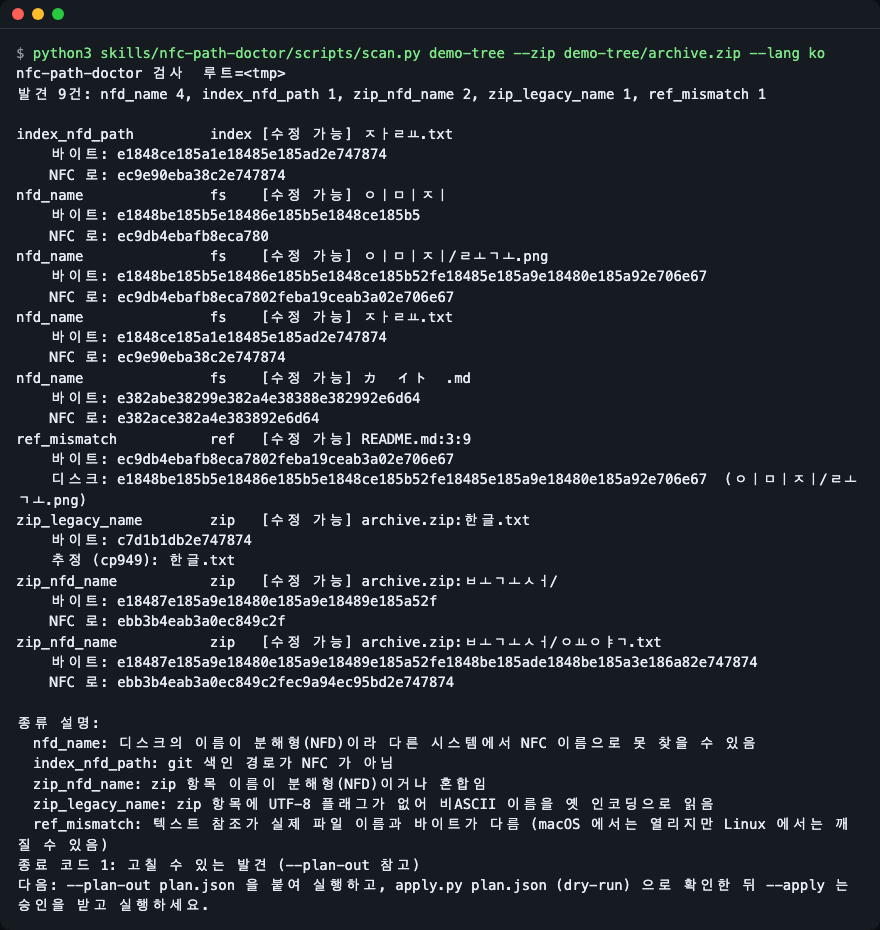
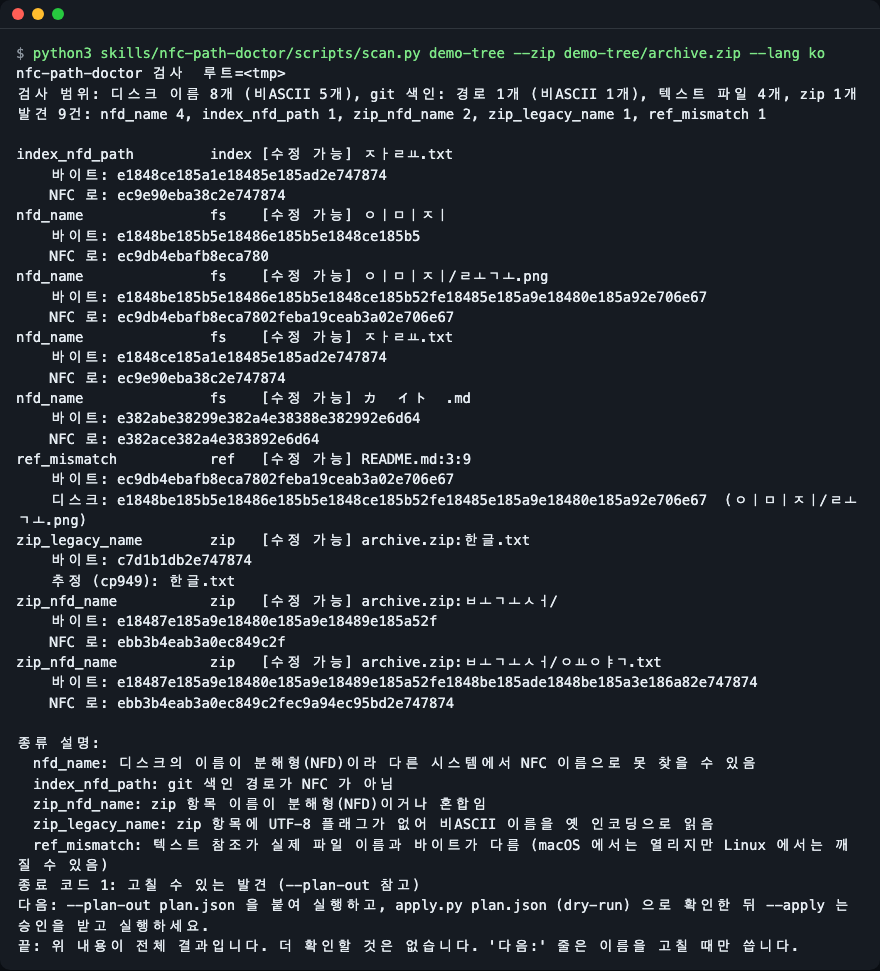
docs(readme): explain the Done line and drop the CI result claim
How it works says when report.json is read. The Linux note states where
the Linux-only tests run without claiming their result. Hero screenshots
show the new checked and Done lines.

diff --git a/README.ko.md b/README.ko.md
@@ -130,7 +130,7 @@ flowchart LR
   D --> E[undo.json]
 ```
 
-- `SKILL.md` 의 진입점은 하나입니다. `scan.py` 를 먼저 돌리고 그 출력과 `report.json` 으로 답합니다. 또한 하면 안 되는 일(이름 다시 타이핑, git 설정 변경, NFD→NFC 에 `git mv` 사용)을 에이전트에게 알려 줍니다.
+- `SKILL.md` 의 진입점은 하나입니다. `scan.py` 를 먼저 돌리고, 끝에 붙는 `Done:`(한국어 출력에서는 `끝:`) 줄은 표가 전체 결과인지 알려 줍니다. 에이전트는 그 출력을 보고 답하고, 표가 `--max-rows`(기본 200)에서 잘렸을 때만 `report.json` 을 읽습니다. `report.json` 에는 같은 발견이 JSON 으로 들어 있습니다. 또한 하면 안 되는 일(이름 다시 타이핑, git 설정 변경, NFD→NFC 에 `git mv` 사용)을 에이전트에게 알려 줍니다.
 - `scan.py` 는 읽기만 합니다. 폴더 목록, `git` 으로 읽는 색인, 읽기 전용으로 여는 zip, 텍스트 파일만 봅니다.
 - `apply.py` 는 쓰는 유일한 스크립트이며 검사한 폴더 안에서만 씁니다. 먼저 계획이 오래되지 않았는지 확인합니다.
 - 내 컴퓨터 밖으로 나가는 것이 없습니다. 네트워크 접근이 없고, 가리킨 폴더 안 파일을 읽고 이름을 바꾸는 것 외 추가 권한이 필요 없습니다.
@@ -180,7 +180,7 @@ macOS 의 git(`core.precomposeunicode`)과 zip 의 UTF-8 플래그(11번 비트,
 - NFC 만 지원합니다. NFKC·NFKD 는 이름 자체를 바꾸므로 쓰지 않습니다.
 - zip 은 검사만 하고 다시 쓰지 않습니다. 이름을 고친 뒤 직접 다시 압축하세요.
 - git 히스토리는 다시 쓰지 않습니다. 현재 색인만 바꿉니다.
-- Windows 는 확인하지 않았습니다. Linux 동작(NFC·NFD 가 나란히 존재)은 macOS 에서 바이트를 그대로 보존하는 파일 시스템 모의 테스트로만 확인했습니다. Linux 전용 테스트는 Linux 에서만 실행되며, Ubuntu CI 에서는 아직 통과 기록이 없습니다.
+- Windows 는 확인하지 않았습니다. Linux 동작(NFC·NFD 가 나란히 존재)은 macOS 에서 바이트를 그대로 보존하는 파일 시스템 모의 테스트로만 확인했습니다. Linux 전용 테스트는 macOS 에서는 건너뛰고 Linux(CI 의 Ubuntu 작업)에서만 실행되며, 이 README 는 그 결과를 주장하지 않습니다.
 - 퍼센트 인코딩 URL·문장 속 단어는 참조로 풀지 않습니다.
 - HFS+ 는 이름을 분해형으로 유지하므로 NFC 로 바꾸는 이름 변경이 실패해 되돌려집니다.
 - 스크립트가 쓰지 않은 기존 JSON 파일은 덮어쓰지 않고 멈춥니다(`error: refusing to overwrite ...`, 종료 코드 2). 다른 `--out` 이름을 고르세요.

diff --git a/README.md b/README.md
@@ -130,7 +130,7 @@ flowchart LR
   D --> E[undo.json]
 ```
 
-- `SKILL.md` has one entry point: run `scan.py` first, answer from its output and `report.json`. It also tells the agent what never to do (retype names, change git config, use `git mv` for NFD to NFC).
+- `SKILL.md` has one entry point: run `scan.py` first, then answer from its printed output (it ends with a `Done:` line that says whether the table is the complete result); `report.json` holds the same findings as JSON, and is read only when the table is cut off at `--max-rows` (default 200). It also tells the agent what never to do (retype names, change git config, use `git mv` for NFD to NFC).
 - `scan.py` only reads. It lists directories, reads the git index through `git`, opens zip files read-only and reads text files.
 - `apply.py` is the only script that writes, and only inside the scanned folder. It checks that the plan is not stale first.
 - Nothing leaves your machine: there is no network access and no extra permission beyond reading and renaming files in the folder you point at.
@@ -180,7 +180,7 @@ What this skill adds is the diagnosis step an agent needs: one scan across the w
 - NFC only. NFKC and NFKD change the name itself, so they are never used.
 - Zip files are inspected, never rewritten. Re-pack them yourself after fixing names.
 - git history is not rewritten; only the current index is changed.
-- Windows is unverified. Linux behavior (NFC and NFD side by side) was checked only with a byte-preserving file system simulation in tests, run on macOS. The Linux-only tests run only on Linux; the Ubuntu CI job has no passing run yet.
+- Windows is unverified. Linux behavior (NFC and NFD side by side) was checked only with a byte-preserving file system simulation in tests, run on macOS. The Linux-only tests are skipped on macOS and run only on Linux (the CI Ubuntu job); this README makes no claim about their result.
 - Percent-encoded URLs and words in prose are not resolved as references.
 - HFS+ keeps names decomposed, so a rename to NFC there fails and is rolled back.
 - Scripts refuse to overwrite an existing JSON file they did not write (`error: refusing to overwrite ...`, exit 2). Pick another `--out` name.
